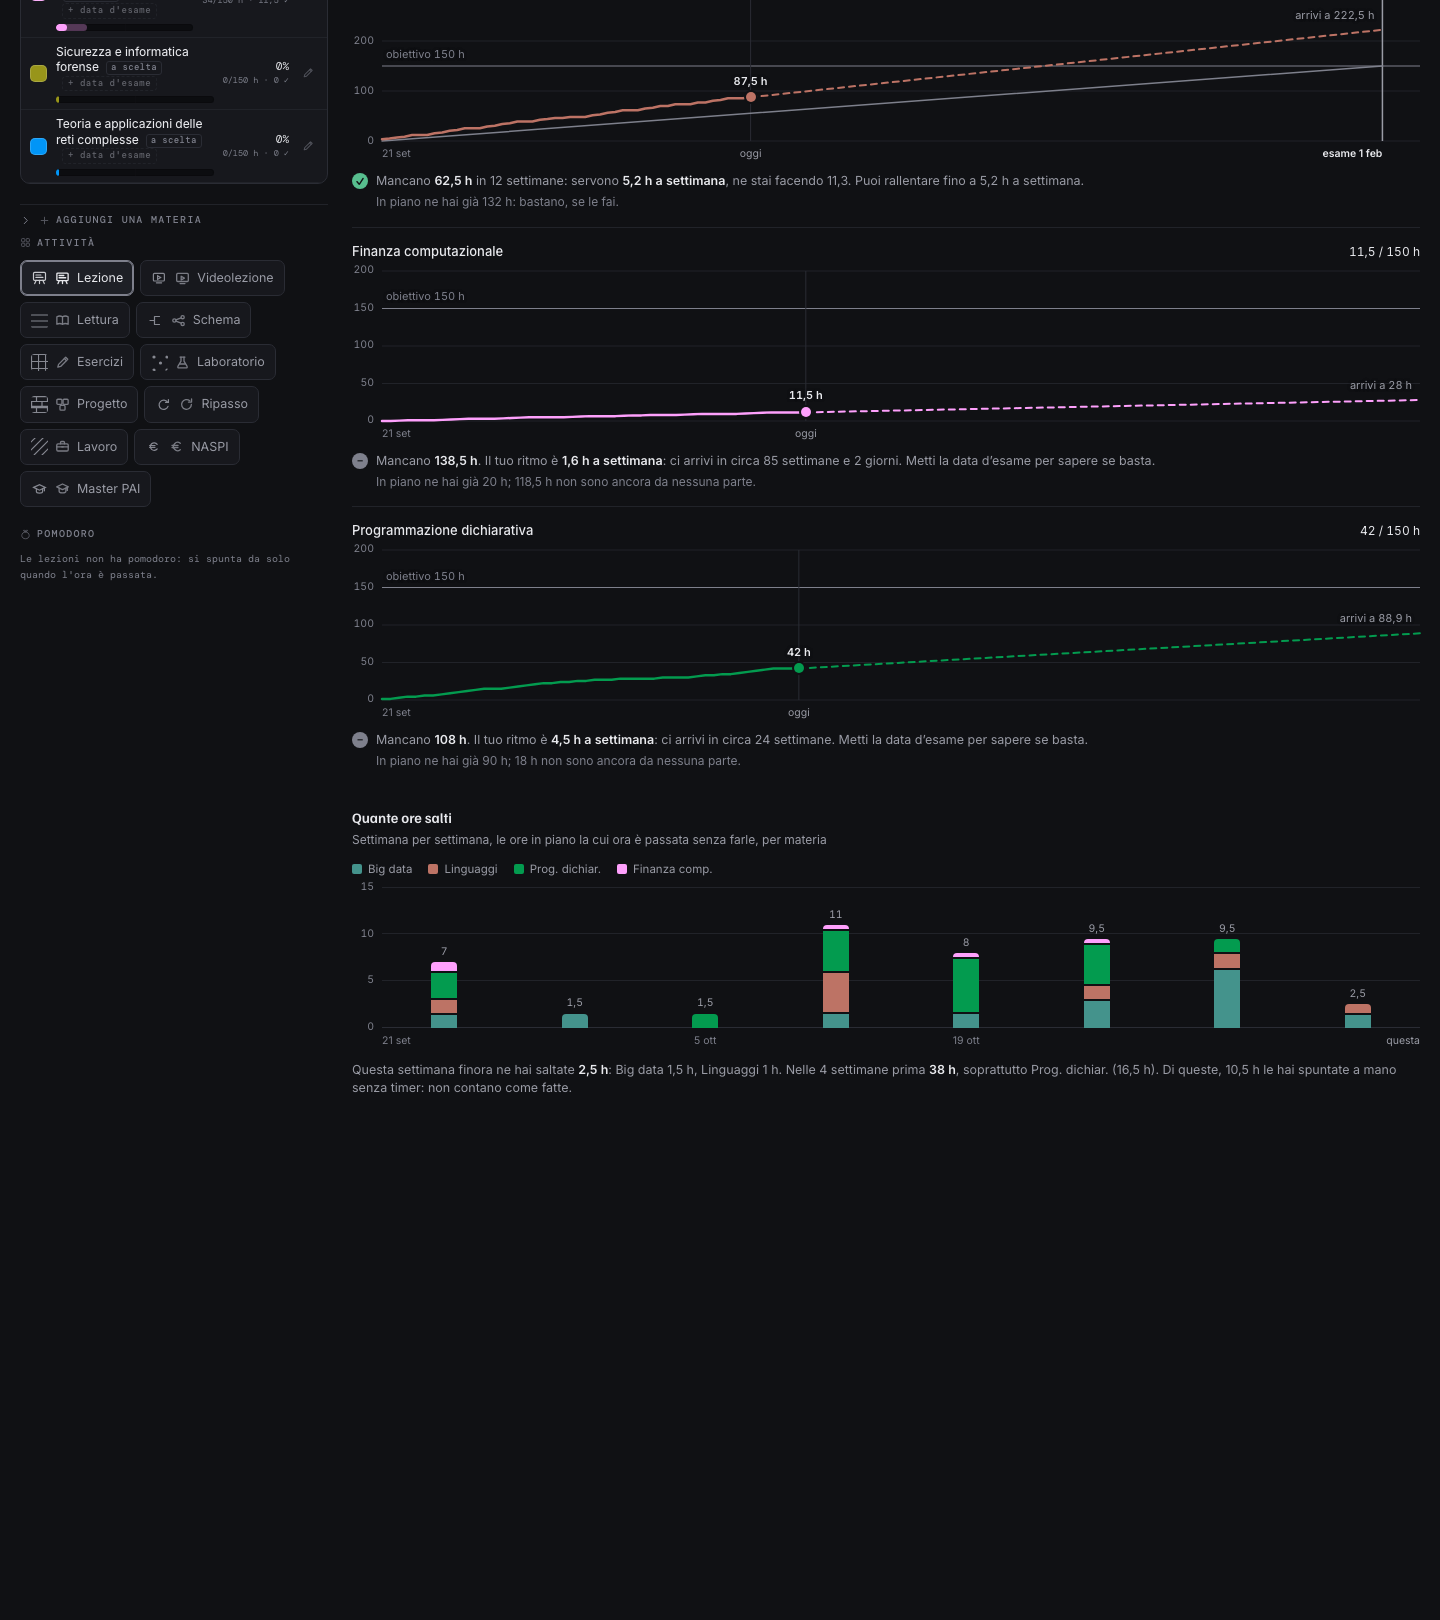
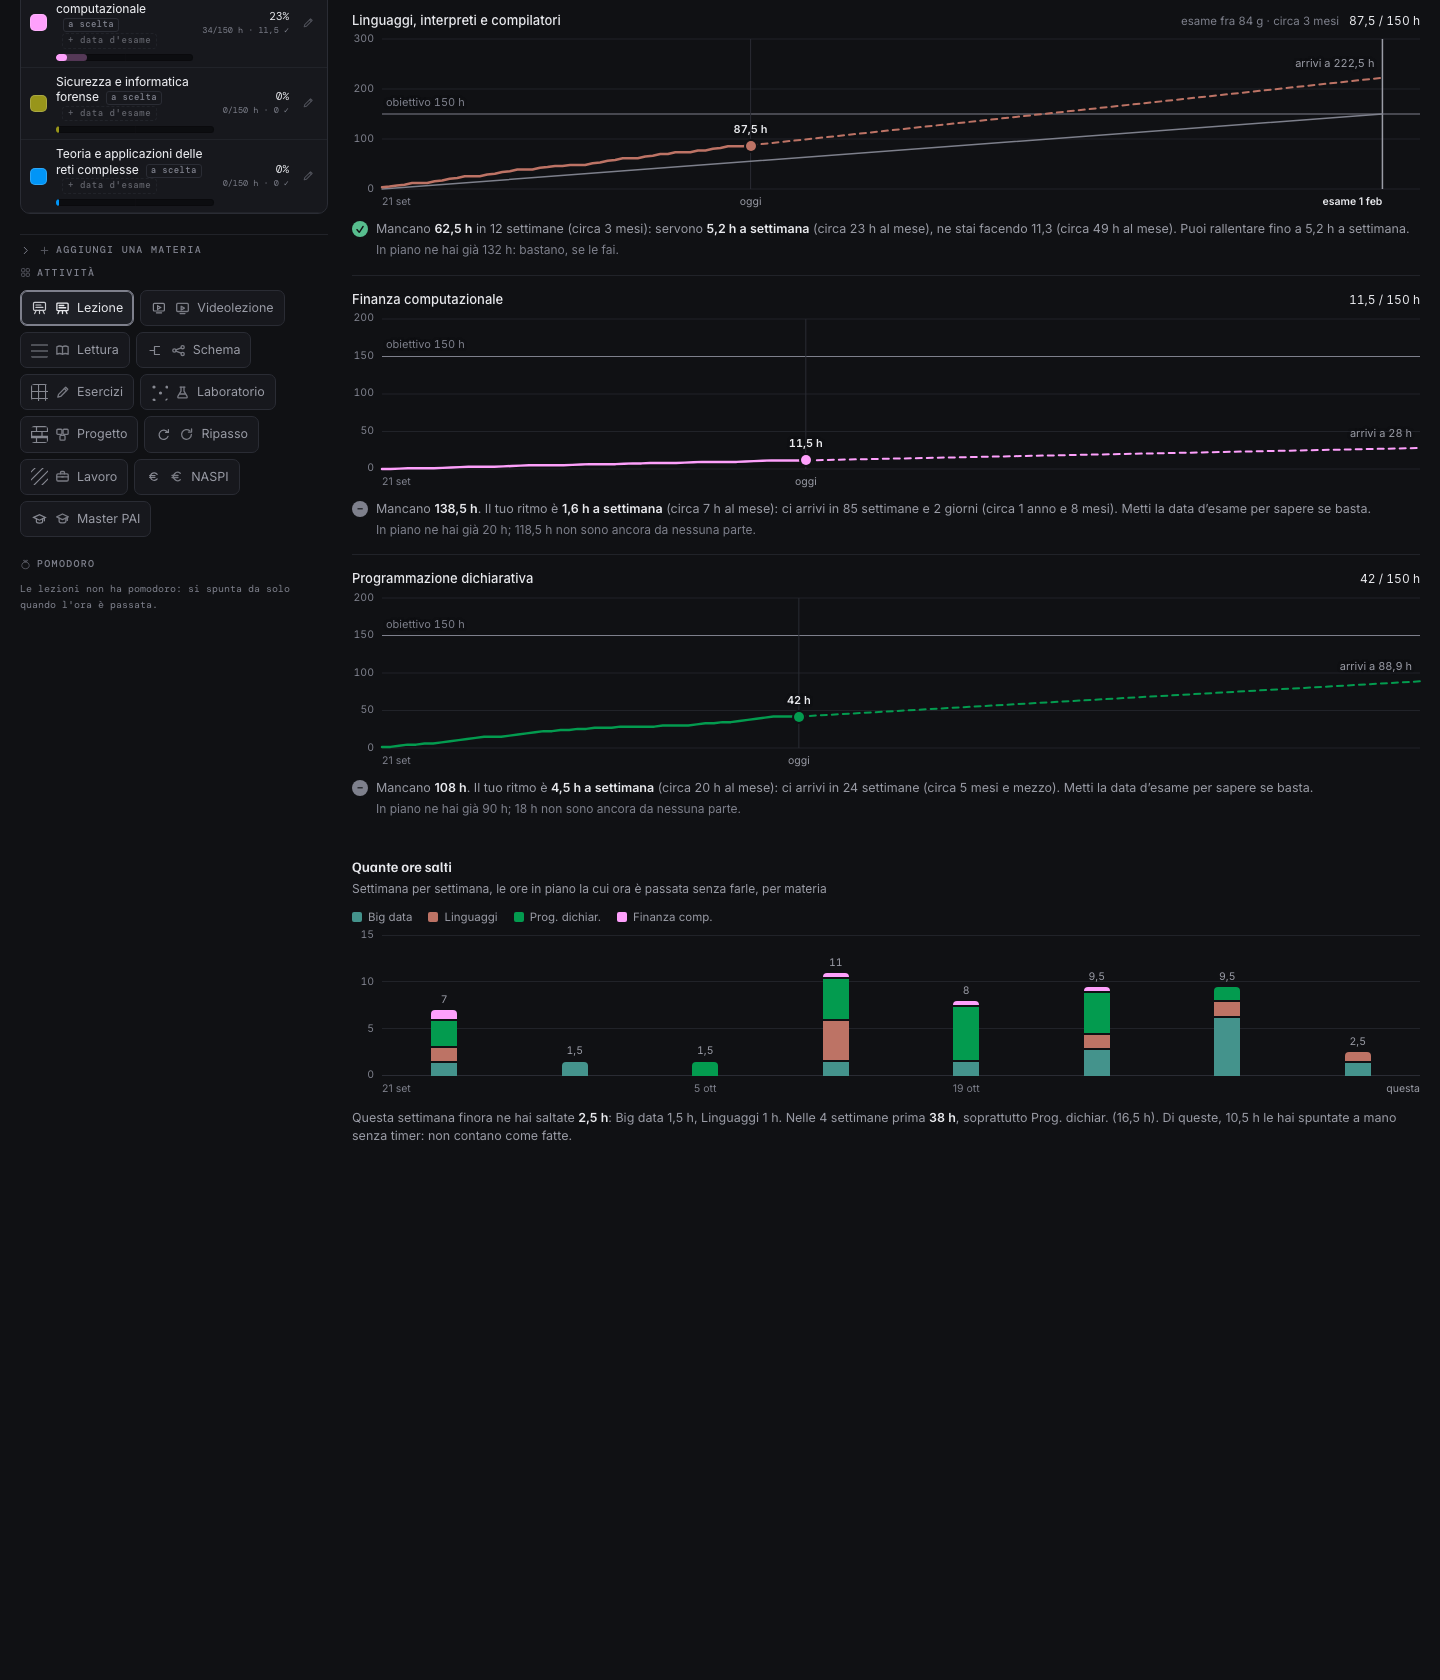
Il ritmo non gonfia i primi giorni, e il tempo si dice anche in mesi
Il ritmo di una materia era le ore delle ultime quattro settimane divise
per i giorni passati e moltiplicate per sette: per una materia cominciata
da pochi giorni la moltiplicazione gonfiava tutto. Sei ore fra ieri e
oggi diventavano "ne stai facendo 21 a settimana", e il grafico diceva di
rallentare. Ora si divide per le settimane, mai per meno di una.

Il tempo che manca si dice anche in mesi ("10 settimane e 5 giorni
(circa 2 mesi e mezzo)"), la data d'esame pure, e le ore a settimana
anche al mese.

diff --git a/index.html b/index.html
@@ -1797,7 +1797,7 @@ const SWATCHES=["#6E8BFF","#8FA4E8","#5FA8D3","#4A8FBE","#63C2C2","#4EA5A5",
    scritta nel pannello Backup: quando "mi fa ancora lo stesso" la prima
    domanda e' se il browser sta mostrando il file nuovo o uno vecchio in
    memoria — e senza questo nessuno dei due puo' rispondere. */
-const VERSIONE="27 set 2026 · f";
+const VERSIONE="27 set 2026 · g";
 const KEY="piano-6272-v5";
 let state={v:7,theme:"dark",piano:"LM18",year:1,ctx:"1",from:0,to:6,span:7,dayStart:0,act:"LEZ",brush:null,erase:false,
            exams:[],over:{},q:"",collapsed:{},dayClip:null,semOpen:false,blockClip:null,
@@ -4507,6 +4507,17 @@ function semSummary(){
    - riga orizzontale: il monte ore; riga verticale: il giorno dell'esame.
    Sotto, quanto manca: servono tot ore a settimana, ne fai tot, quindi
    aumenta di tanto o puoi rallentare fino a tanto. */
+/* Giorni detti in mesi, a mezzi mesi: "circa 2 mesi e mezzo". Oltre l'anno,
+   anni e mesi interi. */
+function inMesi(g){
+  const m=g/30.44;
+  if(m<0.75)return "meno di un mese";
+  const mm=Math.round(m*2)/2,a=Math.floor(mm/12);
+  const mesi=(r,mezzi)=>{const i=Math.floor(r),mz=mezzi&&r-i>=0.5;
+    return i?i+(i===1?" mese":" mesi")+(mz?" e mezzo":""):(mz?"mezzo mese":"");};
+  if(a){const r=Math.round(mm-a*12);return "circa "+a+(a===1?" anno":" anni")+(r?" e "+mesi(r,false):"");}
+  return "circa "+mesi(mm,true);
+}
 function corsa(r,giorni,primoG,ultimoG,inPiano){
   const o=r.o,tgt=r.tgt,oggiD=parse(TODAY);
   const conData=r.gg!=null&&r.gg>=0,passato=r.gg!=null&&r.gg<0;
@@ -4525,11 +4536,15 @@ function corsa(r,giorni,primoG,ultimoG,inPiano){
   const fatte=[];let cum=0;
   for(let g=0;g<=iOggi;g++){cum+=(giorni[iso(addDays(inizio,g))]||0)/PERQ;fatte.push(cum);}
   const ora=cum;
-  /* il ritmo: la media a settimana delle ultime quattro, o da quando hai
-     cominciato se e' meno */
+  /* Il ritmo: le ore fatte nelle ultime quattro settimane (o da quando hai
+     cominciato la materia, se e' meno), divise per le settimane — ma mai per
+     meno di una. Dividere per i giorni passati e moltiplicare per sette
+     gonfiava i primi giorni: sei ore fra sabato e domenica diventavano
+     "ne stai facendo 21 a settimana", e il grafico diceva di rallentare
+     (27 settembre). Una settimana non ancora finita vale una settimana. */
   const fin=Math.min(28,iOggi+1);
   let ult=0;for(let g=iOggi-fin+1;g<=iOggi;g++)ult+=(giorni[iso(addDays(inizio,g))]||0)/PERQ;
-  const alGiorno=ult/fin,aSett=alGiorno*7;
+  const alGiorno=ult/Math.max(7,fin),aSett=alGiorno*7;
   const fineProiez=conData?nEsame:(passato?null:n);
   const proiez=fineProiez!=null?(g=>ora+alGiorno*(g-iOggi)):null;
   const dovresti=conData||passato?(g=>Math.min(tgt,tgt*Math.max(0,g)/Math.max(1,nEsame))):null;
@@ -4573,14 +4588,19 @@ function corsa(r,giorni,primoG,ultimoG,inPiano){
   /* quanto manca, a parole */
   const manca=Math.max(0,tgt-ora),giorniRest=conData?Math.max(0,r.gg):null;
   const tempo=g=>{const s=Math.floor(g/7),x=g%7;
-    return (s?s+(s===1?" settimana":" settimane"):"")+(s&&x?" e ":"")+(x?x+(x===1?" giorno":" giorni"):"")||"oggi";};
+    const w=(s?s+(s===1?" settimana":" settimane"):"")+(s&&x?" e ":"")+(x?x+(x===1?" giorno":" giorni"):"")||"oggi";
+    return g>=21?w+" ("+inMesi(g)+")":w;};
+  /* le ore a settimana dette anche al mese: una settimana e' un quarto
+     abbondante di mese (4,35) */
+  const alMese=v=>" (circa "+Math.round(v*4.35)+" h al mese)";
   let esito,testo;
   if(passato){esito="nd";testo="Esame passato: "+num1(ora)+" h fatte su "+tgt+".";}
   else if(!manca){esito="ok";testo="<b>Obiettivo raggiunto</b>: "+num1(ora)+" h su "+tgt+".";}
   else if(!conData){
     esito="nd";
     testo="Mancano <b>"+num1(manca)+" h</b>. Il tuo ritmo è <b>"+num1(aSett)+" h a settimana</b>"+
-      (aSett>0?": ci arrivi in circa "+tempo(Math.ceil(manca/alGiorno))+".":".")+
+      alMese(aSett)+
+      (aSett>0?": ci arrivi in "+tempo(Math.ceil(manca/alGiorno))+".":".")+
       " Metti la data d’esame per sapere se basta.";
   }else if(!giorniRest){
     esito="ko";testo="L’esame è oggi: mancano "+num1(manca)+" h all’obiettivo.";
@@ -4588,13 +4608,13 @@ function corsa(r,giorni,primoG,ultimoG,inPiano){
     const serve=manca/(giorniRest/7),diff=aSett-serve;
     esito=diff>=0?"ok":"ko";
     testo="Mancano <b>"+num1(manca)+" h</b> in "+tempo(giorniRest)+": servono <b>"+num1(serve)+
-      " h a settimana</b>, ne stai facendo "+num1(aSett)+". "+
+      " h a settimana</b>"+alMese(serve)+", ne stai facendo "+num1(aSett)+alMese(aSett)+". "+
       (diff>=0?(diff<0.05?"Sei esattamente al passo.":"Puoi rallentare fino a "+num1(serve)+" h a settimana.")
-        :"Devi aumentare di <b>"+num1(-diff)+" h a settimana</b>.");
+        :"Devi aumentare di <b>"+num1(-diff)+" h a settimana</b>"+alMese(-diff)+".");
   }
   const vuoto=Math.max(0,manca-inPiano);
   return '<div class="gp"><div class="gph"><b>'+esc(o.name)+"</b>"+
-      (r.gg!=null?"<em>"+(r.gg>=0?"esame fra "+r.gg+" g":"esame passato")+"</em>":"")+
+      (r.gg!=null?"<em>"+(r.gg>=0?"esame fra "+r.gg+" g"+(r.gg>=21?" · "+inMesi(r.gg):""):"esame passato")+"</em>":"")+
       "<u>"+num1(ora)+" / "+tgt+" h</u></div>"+grafico+
     '<div class="gritmo"><span class="gesito '+esito+'" aria-hidden="true">'+
       (esito==="ok"?"✓":(esito==="ko"?"!":"–"))+"</span><span>"+testo+"</span></div>"+

diff --git a/test/suite.js b/test/suite.js
@@ -1224,6 +1224,30 @@
     return parseFloat(dopo.replace(",","."))>parseFloat(prima.replace(",","."))?true:
       "fatte due ore oggi, il ritmo e' rimasto "+prima+" → "+dopo;});
 
+  /* 27 settembre: "non mi sembra giusto il conteggio". Una materia cominciata
+     ieri, tre ore ieri e tre oggi: il ritmo e' sei ore a settimana, non
+     ventuno. */
+  t("il ritmo non gonfia i primi giorni di una materia",function(){
+    pulisci();apri();
+    var o=items()[0];
+    state.over[o.id]={n:o.name,c:6,d:iso(addDays(new Date(),70))};
+    placeRun(iso(addDays(new Date(),-1)),HOURS[2],{i:o.id,a:"SCH",len:6,done:1},0);
+    placeRun(TODAY,HOURS[10],{i:o.id,a:"SCH",len:6,done:1},0);
+    semSummary();
+    var t=document.querySelector("#semBody .gritmo").textContent;
+    state.over={};
+    var r=(t.match(/ne stai facendo ([\d,]+)/)||[])[1];
+    return r==="6"?true:"dice: "+t;});
+  t("il tempo che manca e' detto anche in mesi",function(){
+    pulisci();apri();
+    var o=items()[0];
+    state.over[o.id]={n:o.name,c:6,d:iso(addDays(new Date(),75))};
+    placeRun(iso(addDays(new Date(),-3)),HOURS[2],{i:o.id,a:"SCH",len:4,done:1},0);
+    semSummary();
+    var t=document.querySelector("#semBody .gp").textContent;
+    state.over={};
+    if(!/circa 2 mesi e mezzo/.test(t))return "non dice i mesi: "+t;
+    return /h al mese/.test(t)?true:"non dice le ore al mese: "+t;});
   t("il lavoro e la NASPI non contano nei grafici",function(){
     pulisci();apri();
     var ieri=iso(addDays(new Date(),-1));
